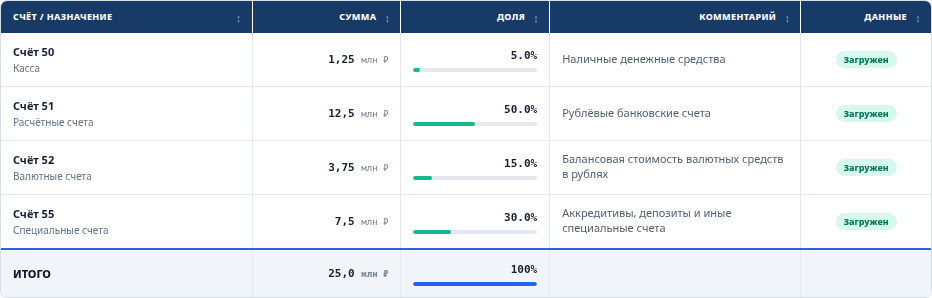
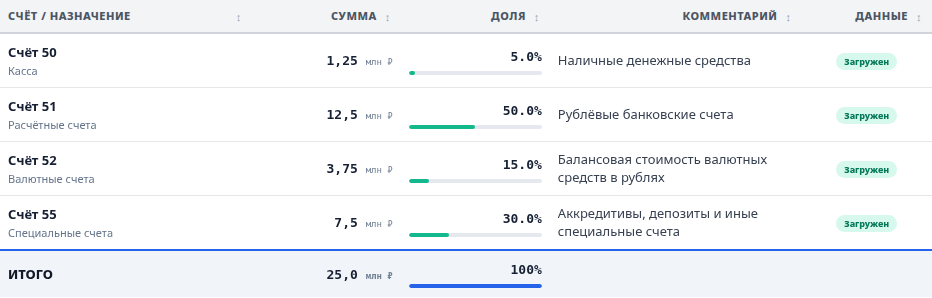
Update key indicators styling and refresh dashboard screenshots
Replit-Commit-Author: Agent

diff --git a/osv-dashboard/static/key_indicators.css b/osv-dashboard/static/key_indicators.css
@@ -505,15 +505,15 @@ details.warnings-details ul { margin-left: 16px; margin-top: 6px; }
 .metric-rich-required { background:#451A03; color:#FDE68A; border-radius:5px; padding:7px 9px; }
 .metric-rich-source { color:#9CA3AF; font-style:italic; font-size:9px; margin-top:9px; }
 .cash-table-scroll {
-  width:100%; overflow-x:auto; border:1px solid #D7DEE8; border-radius:7px;
+  width:100%; overflow-x:auto; margin-bottom:18px;
   background:#fff; box-sizing:border-box;
 }
 .cash-table-scroll:focus-visible { outline:2px solid #2563EB; outline-offset:2px; }
-.cash-table { width:100%; min-width:760px; border-collapse:collapse; table-layout:fixed; font-size:11px; color:#172033; }
+.cash-table { width:100%; min-width:760px; border-collapse:collapse; table-layout:fixed; font-size:13px; color:#374151; }
 .cash-table th {
-  background:#173A66; color:#fff; padding:10px 12px; text-align:right;
-  font-size:9px; line-height:1.25; font-weight:800; text-transform:uppercase;
-  letter-spacing:.35px; border-right:1px solid rgba(255,255,255,.16);
+  background:#F3F4F6; color:#4B5563; padding:9px 8px; text-align:right;
+  font-size:11px; line-height:1.25; font-weight:800; text-transform:uppercase;
+  letter-spacing:.5px; border-bottom:2px solid #D1D5DB;
 }
 .cash-table th:nth-child(1) { width:27%; }
 .cash-table th:nth-child(2) { width:16%; }
@@ -523,15 +523,15 @@ details.warnings-details ul { margin-left: 16px; margin-top: 6px; }
 .cash-table th:last-child { border-right:0; }
 .cash-table th:first-child, .cash-table td:first-child { text-align:left; }
 .cash-table td {
-  padding:11px 12px; text-align:right; vertical-align:middle;
-  border-right:1px solid #E4E8EF; border-bottom:1px solid #E4E8EF;
+  padding:9px 8px; text-align:right; vertical-align:middle;
+  border-bottom:1px solid #E5E7EB; color:#374151;
 }
 .cash-table td:last-child { border-right:0; }
-.cash-table tbody tr:not(.cash-total-row):hover td { background:#F8FAFC; }
+.cash-table tbody tr:not(.cash-total-row):hover td { background:#F9FAFB; }
 .cash-table tbody tr:focus-visible { outline:2px solid #2563EB; outline-offset:-2px; }
-.cash-account-cell strong { display:block; color:#172033; font-size:11px; }
+.cash-account-cell strong { display:block; color:#172033; font-size:13px; }
 .cash-account-name {
-  display:block; margin-top:2px; color:#64748B; font-size:10px;
+  display:block; margin-top:2px; color:#64748B; font-size:11px;
 }
 .cash-number-cell, .cash-share-value {
   font-family:ui-monospace,SFMono-Regular,Menlo,Consolas,monospace;
